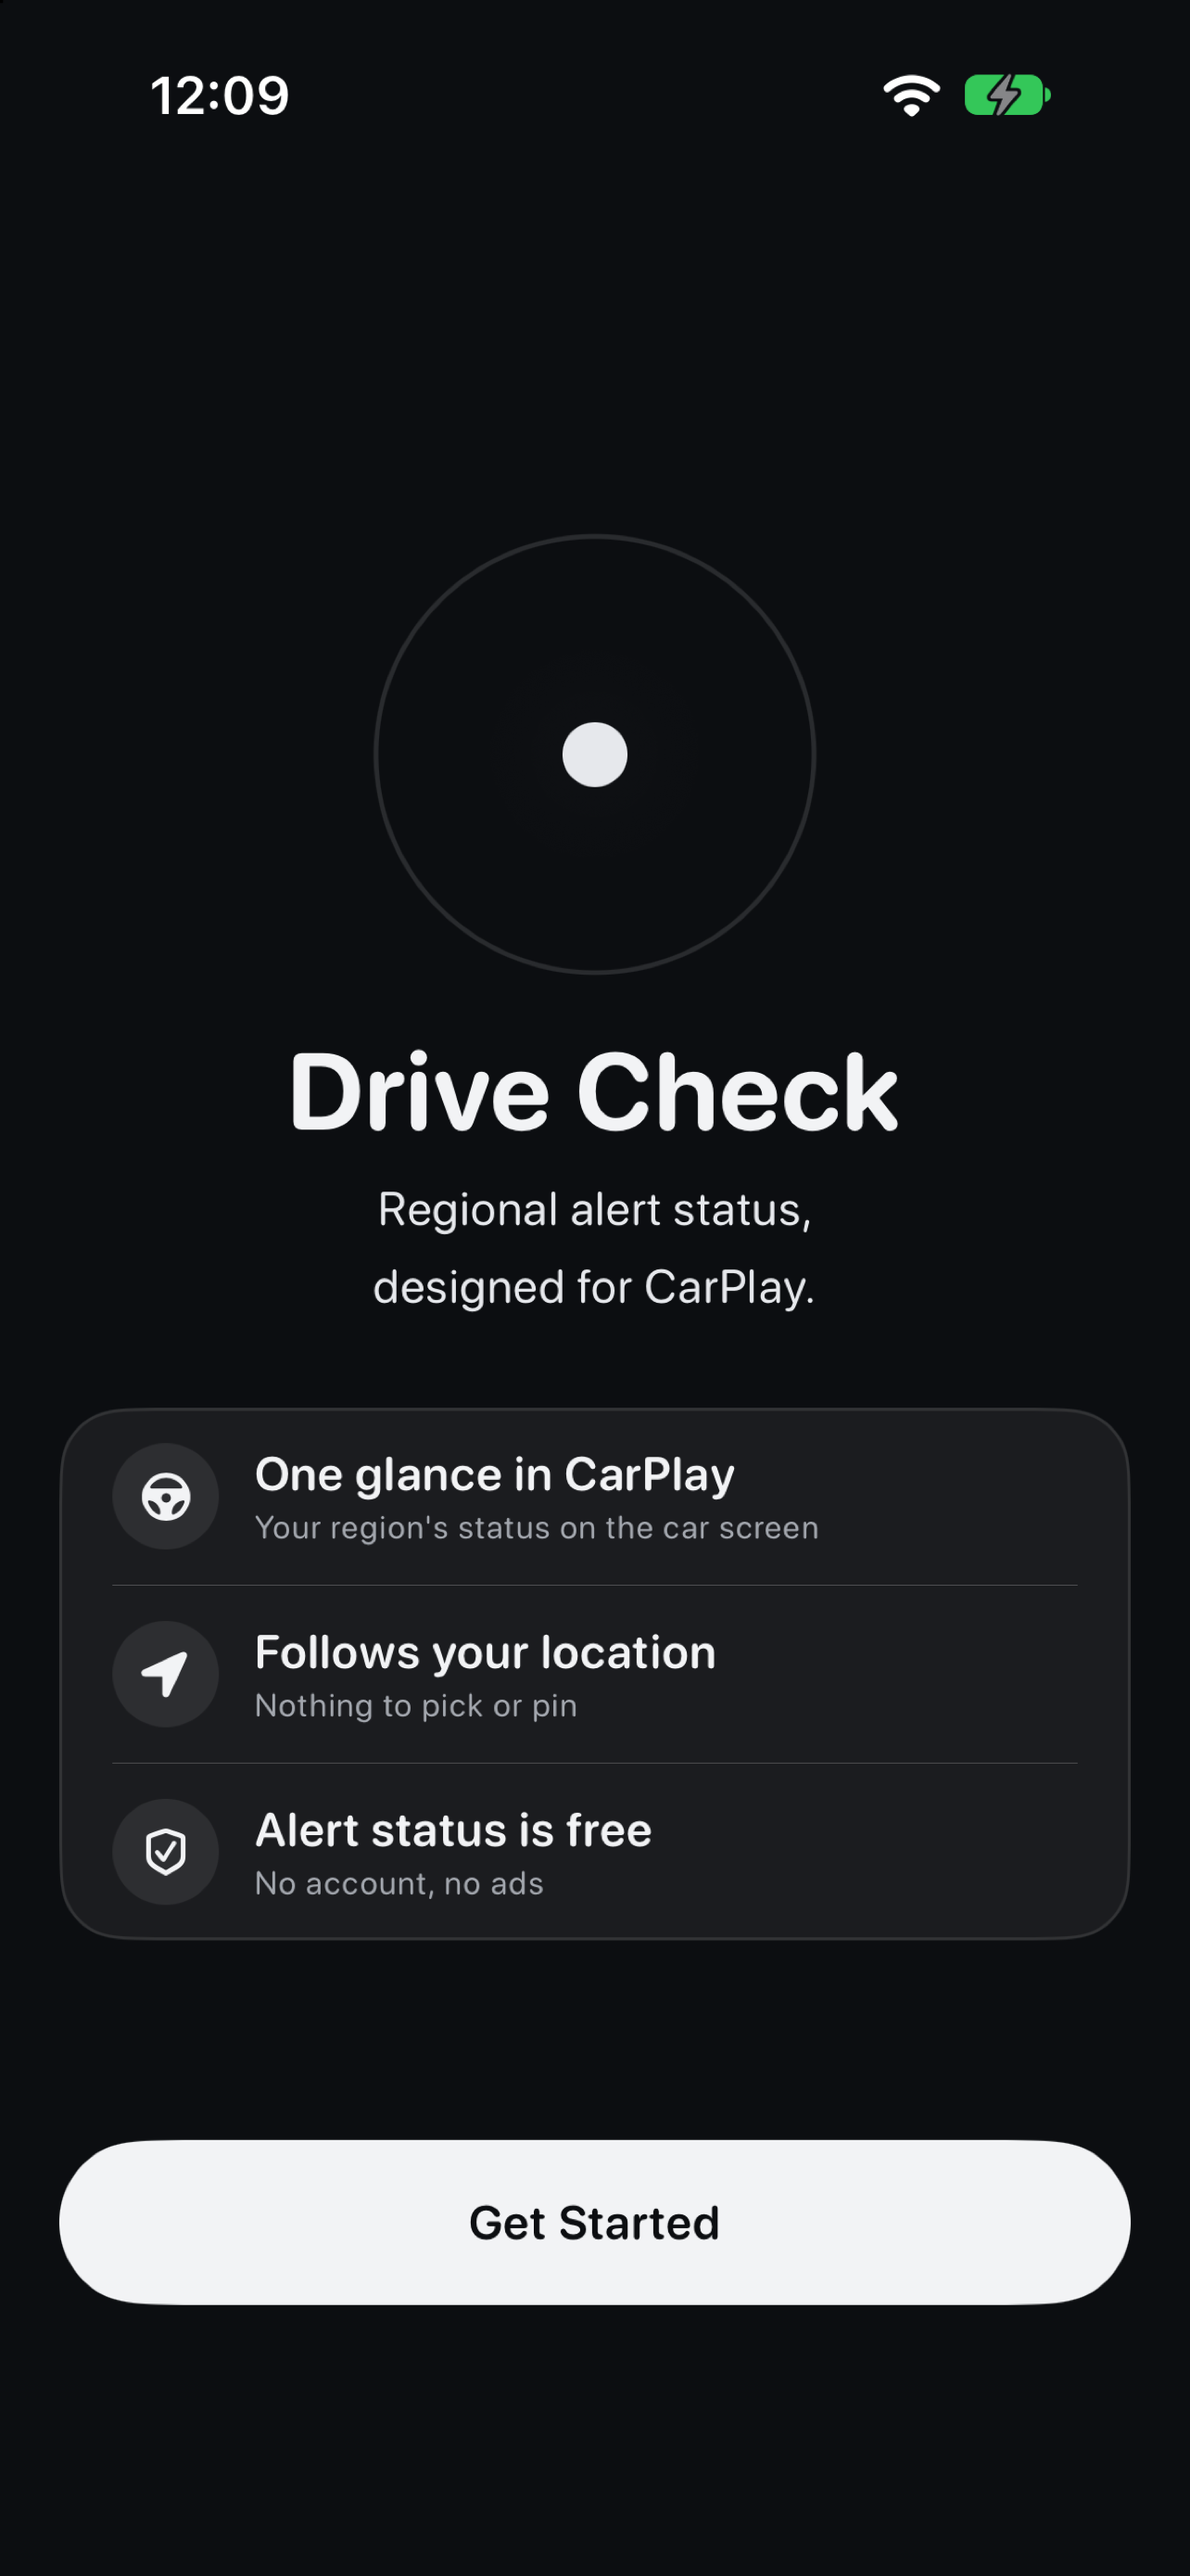
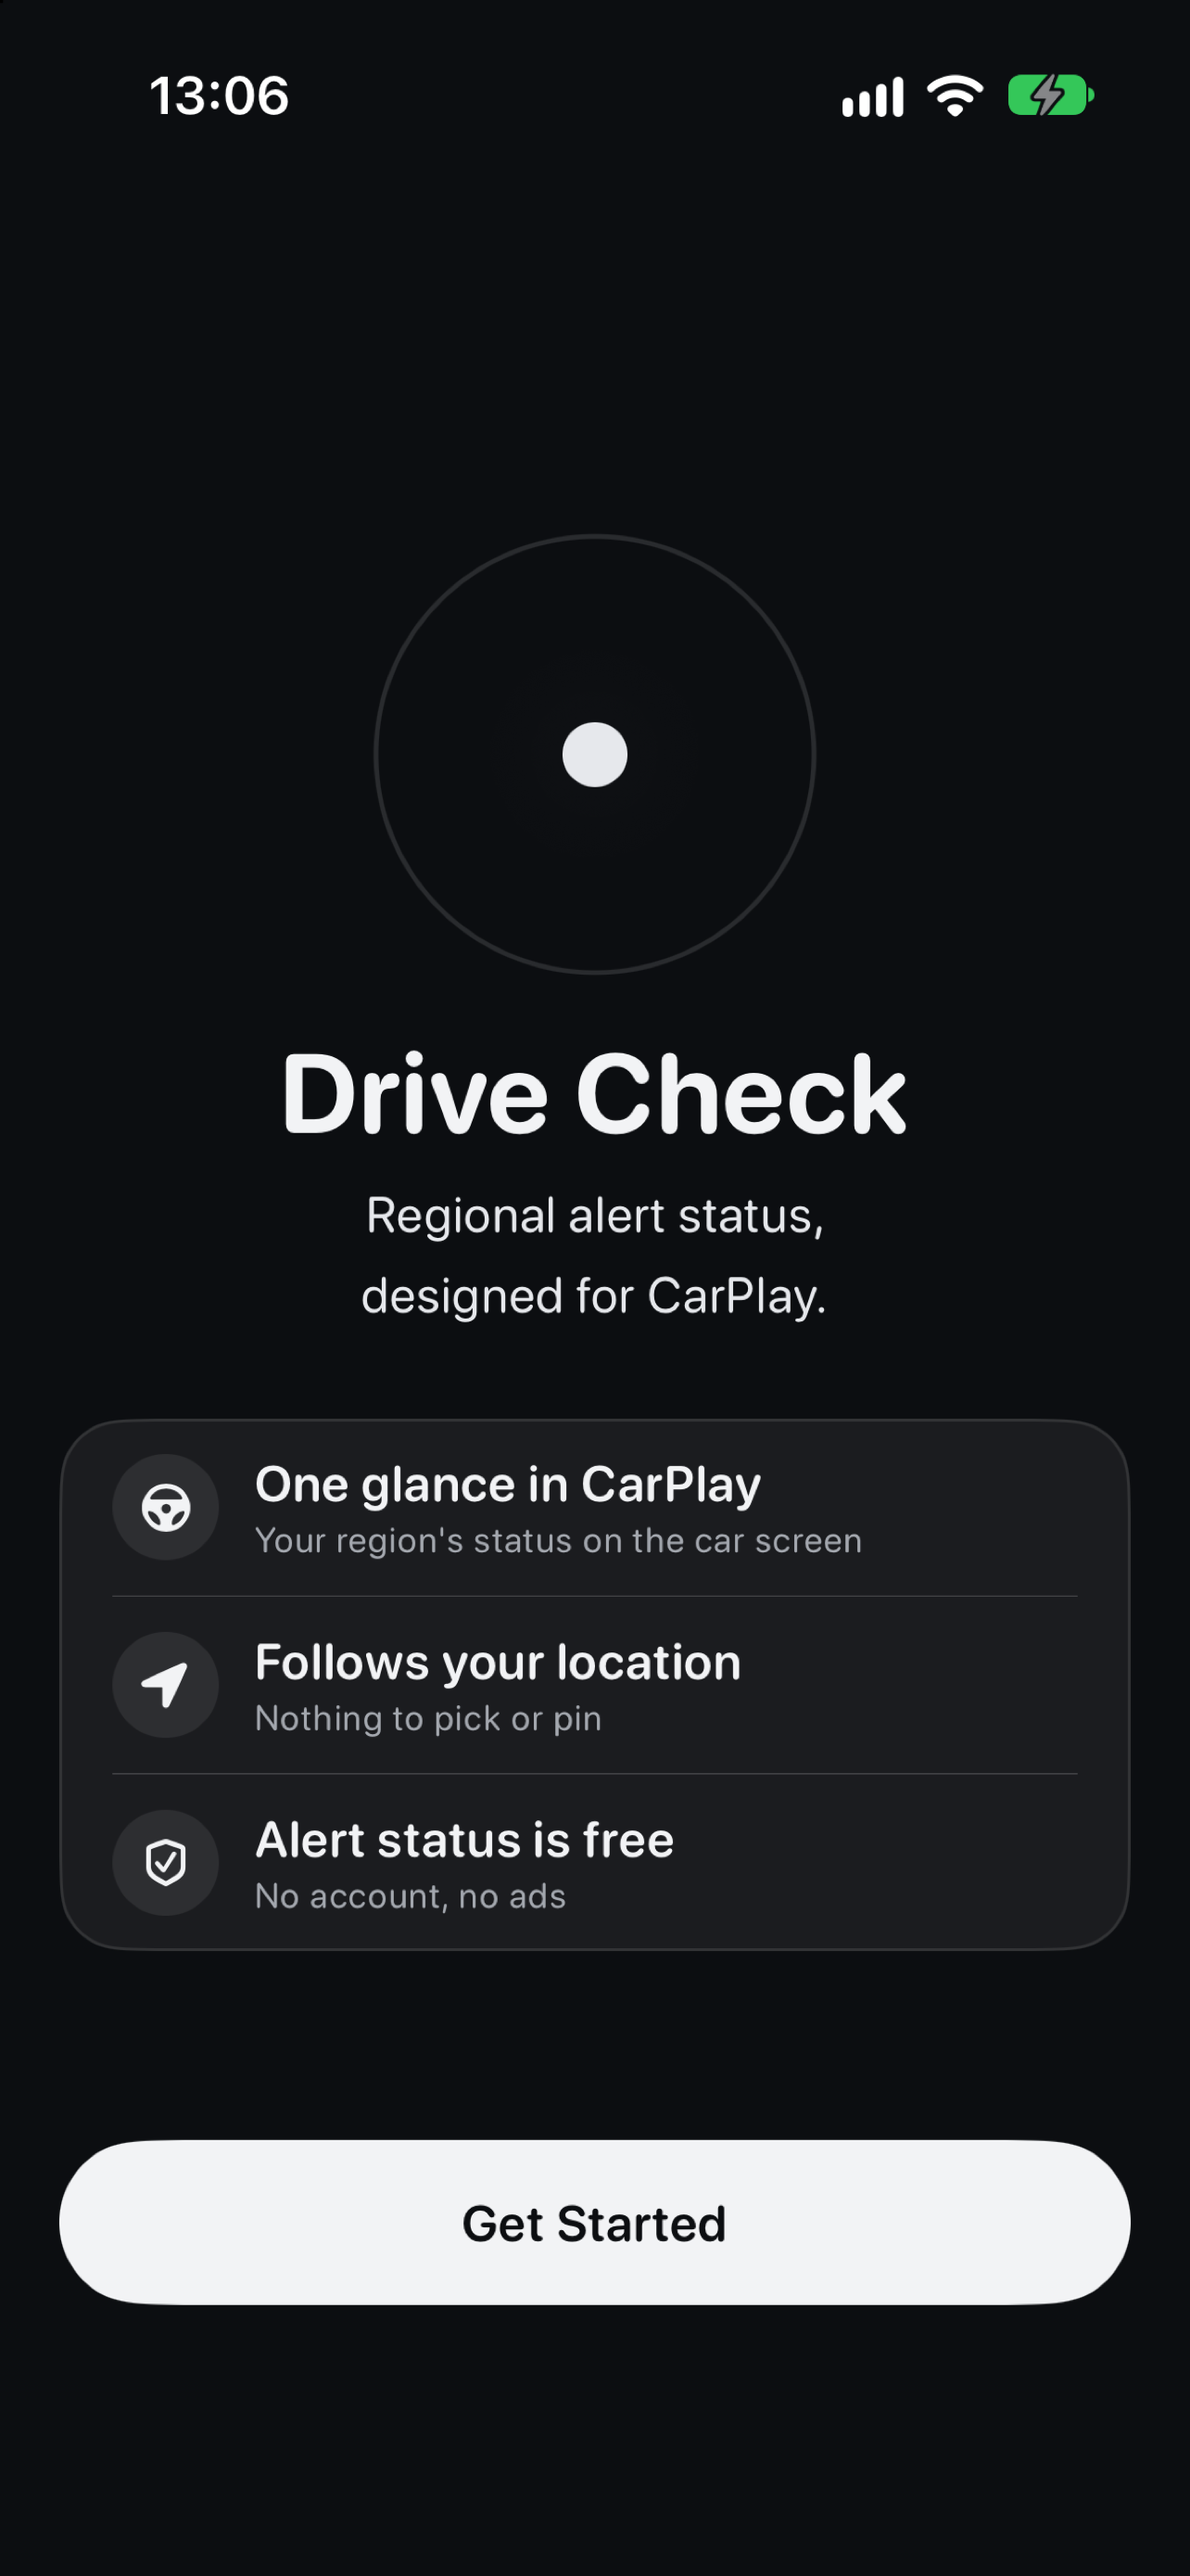
docs(release): recapture the App Store screenshot set for 3.0.0 round 9
The owner asked for the store screenshots to be retaken: the set
uploaded on 2026-09-21 shows the earlier radar sweep and has no screen
for the yellow "Stay Alert" status. The new set has six images:
onboarding, Status with no alert (Lviv), Stay Alert (Cherkasy), alert
(Kharkiv), the region list and Details, captured from the round-9 tree
with live provider data on this session's erased simulator, resized to
1284 x 2778 and flattened to opaque RGB. The README records the order
and how they were taken, including the hasCompletedOnboarding default
the location request needs. Uploading them to App Store Connect stays
with the owner.

Validation: every PNG checked by eye and with ImageMagick (1284 x 2778,
3 channels); no region change notice or stale marker on screen.

diff --git a/release/screenshots/README.md b/release/screenshots/README.md
@@ -1,35 +1,42 @@
 # English screenshot set for 3.0.0
 
-The five PNGs in `asc/` are the set uploaded to App Store Connect on 2026-09-21
-for version 3.0.0, iPhone 6.5" display, in this storefront order. The Ukrainian
-and Russian localizations use the same English set.
+The six PNGs in `asc/` are the set for version 3.0.0, iPhone 6.5" display, in
+this storefront order. They replace the five uploaded to App Store Connect on
+2026-09-21, which showed the earlier radar and had no "Stay Alert" screen; the
+owner uploads them. The Ukrainian and Russian localizations use the same
+English set.
 
 1. `asc/01-onboarding.png` — first launch: what the app does, "Get Started".
-2. `asc/02-status-no-alert.png` — Status, Kyiv with no alert, the nearby-alert
-   line and the inline alert map.
-3. `asc/03-status-alert.png` — Status, Kharkiv Oblast under alert.
-4. `asc/04-region-list.png` — the read-only region list opened from the map.
-5. `asc/05-details.png` — Details: summary, Live Activity switch, purchases,
+2. `asc/02-status-no-alert.png` — Status, Lviv Oblast with no alert and the
+   inline alert map.
+3. `asc/03-status-stay-alert.png` — Status, Cherkasy Oblast in yellow "Stay
+   Alert": quiet, with most of its neighbours under alert, and the nearby line.
+4. `asc/04-status-alert.png` — Status, Kharkiv Oblast under alert.
+5. `asc/05-region-list.png` — the read-only region list opened from the map.
+6. `asc/06-details.png` — Details: summary, Live Activity switch, purchases,
    data source.
 
-All five are 1284 x 2778 portrait images.
+All six are 1284 x 2778 opaque portrait images.
 
 ## Capture provenance
 
-Captured from the final two-tab build on a dedicated, freshly created iPhone 17
-simulator with live provider data, not with `just screenshots`. That script's
+Recaptured on 2026-09-22 from the 3.0.0 round-9 candidate (Debug build of the
+same tree) on a freshly erased iPhone 17 simulator reserved for one agent
+session, with live provider data, not with `just screenshots`. That script's
 Status phases render the offline fixture, whose map is a stylized grid of
 squares rather than the map of Ukraine, and a store screenshot must not show a
 map the app never draws.
 
-The simulator's location was set to Kyiv city for the no-alert shot and to
-Kharkiv for the alert shot, chosen from the live feed at capture time, so each
-screen's status, nearby line, map and region counts agree with each other.
-Counts differ slightly between shots because the feed changed during the
-session. The status bar was overridden to the capture time with a full
-battery, and the region change notice was dismissed before the alert shot. The
-raw 1206 x 2622 captures were resized to 1284 x 2778 with `sips`, as the
-capture script does.
+The app ran with `-ScreenshotPhase live` (and `onboarding`, `region-list`,
+`details`), which uses the live container and only suppresses the first-launch
+cover; `hasCompletedOnboarding` was set in the app's defaults so the location
+request is not held back (REQ-REGION-010). The simulator's location was set to
+Lviv, Cherkasy and Kharkiv, chosen from the live feed at capture time, and each
+location was opened once before the shot so the region change notice was not
+on screen. Status, nearby line, map and region counts on each screen come from
+the same feed. The status bar was overridden to the capture time with a full
+battery. The raw 1206 x 2622 captures were resized to 1284 x 2778 with `sips`,
+as the capture script does, and flattened to opaque RGB.
 
 Until the capture script can render the provider map, recapture the store set
 the same way.
